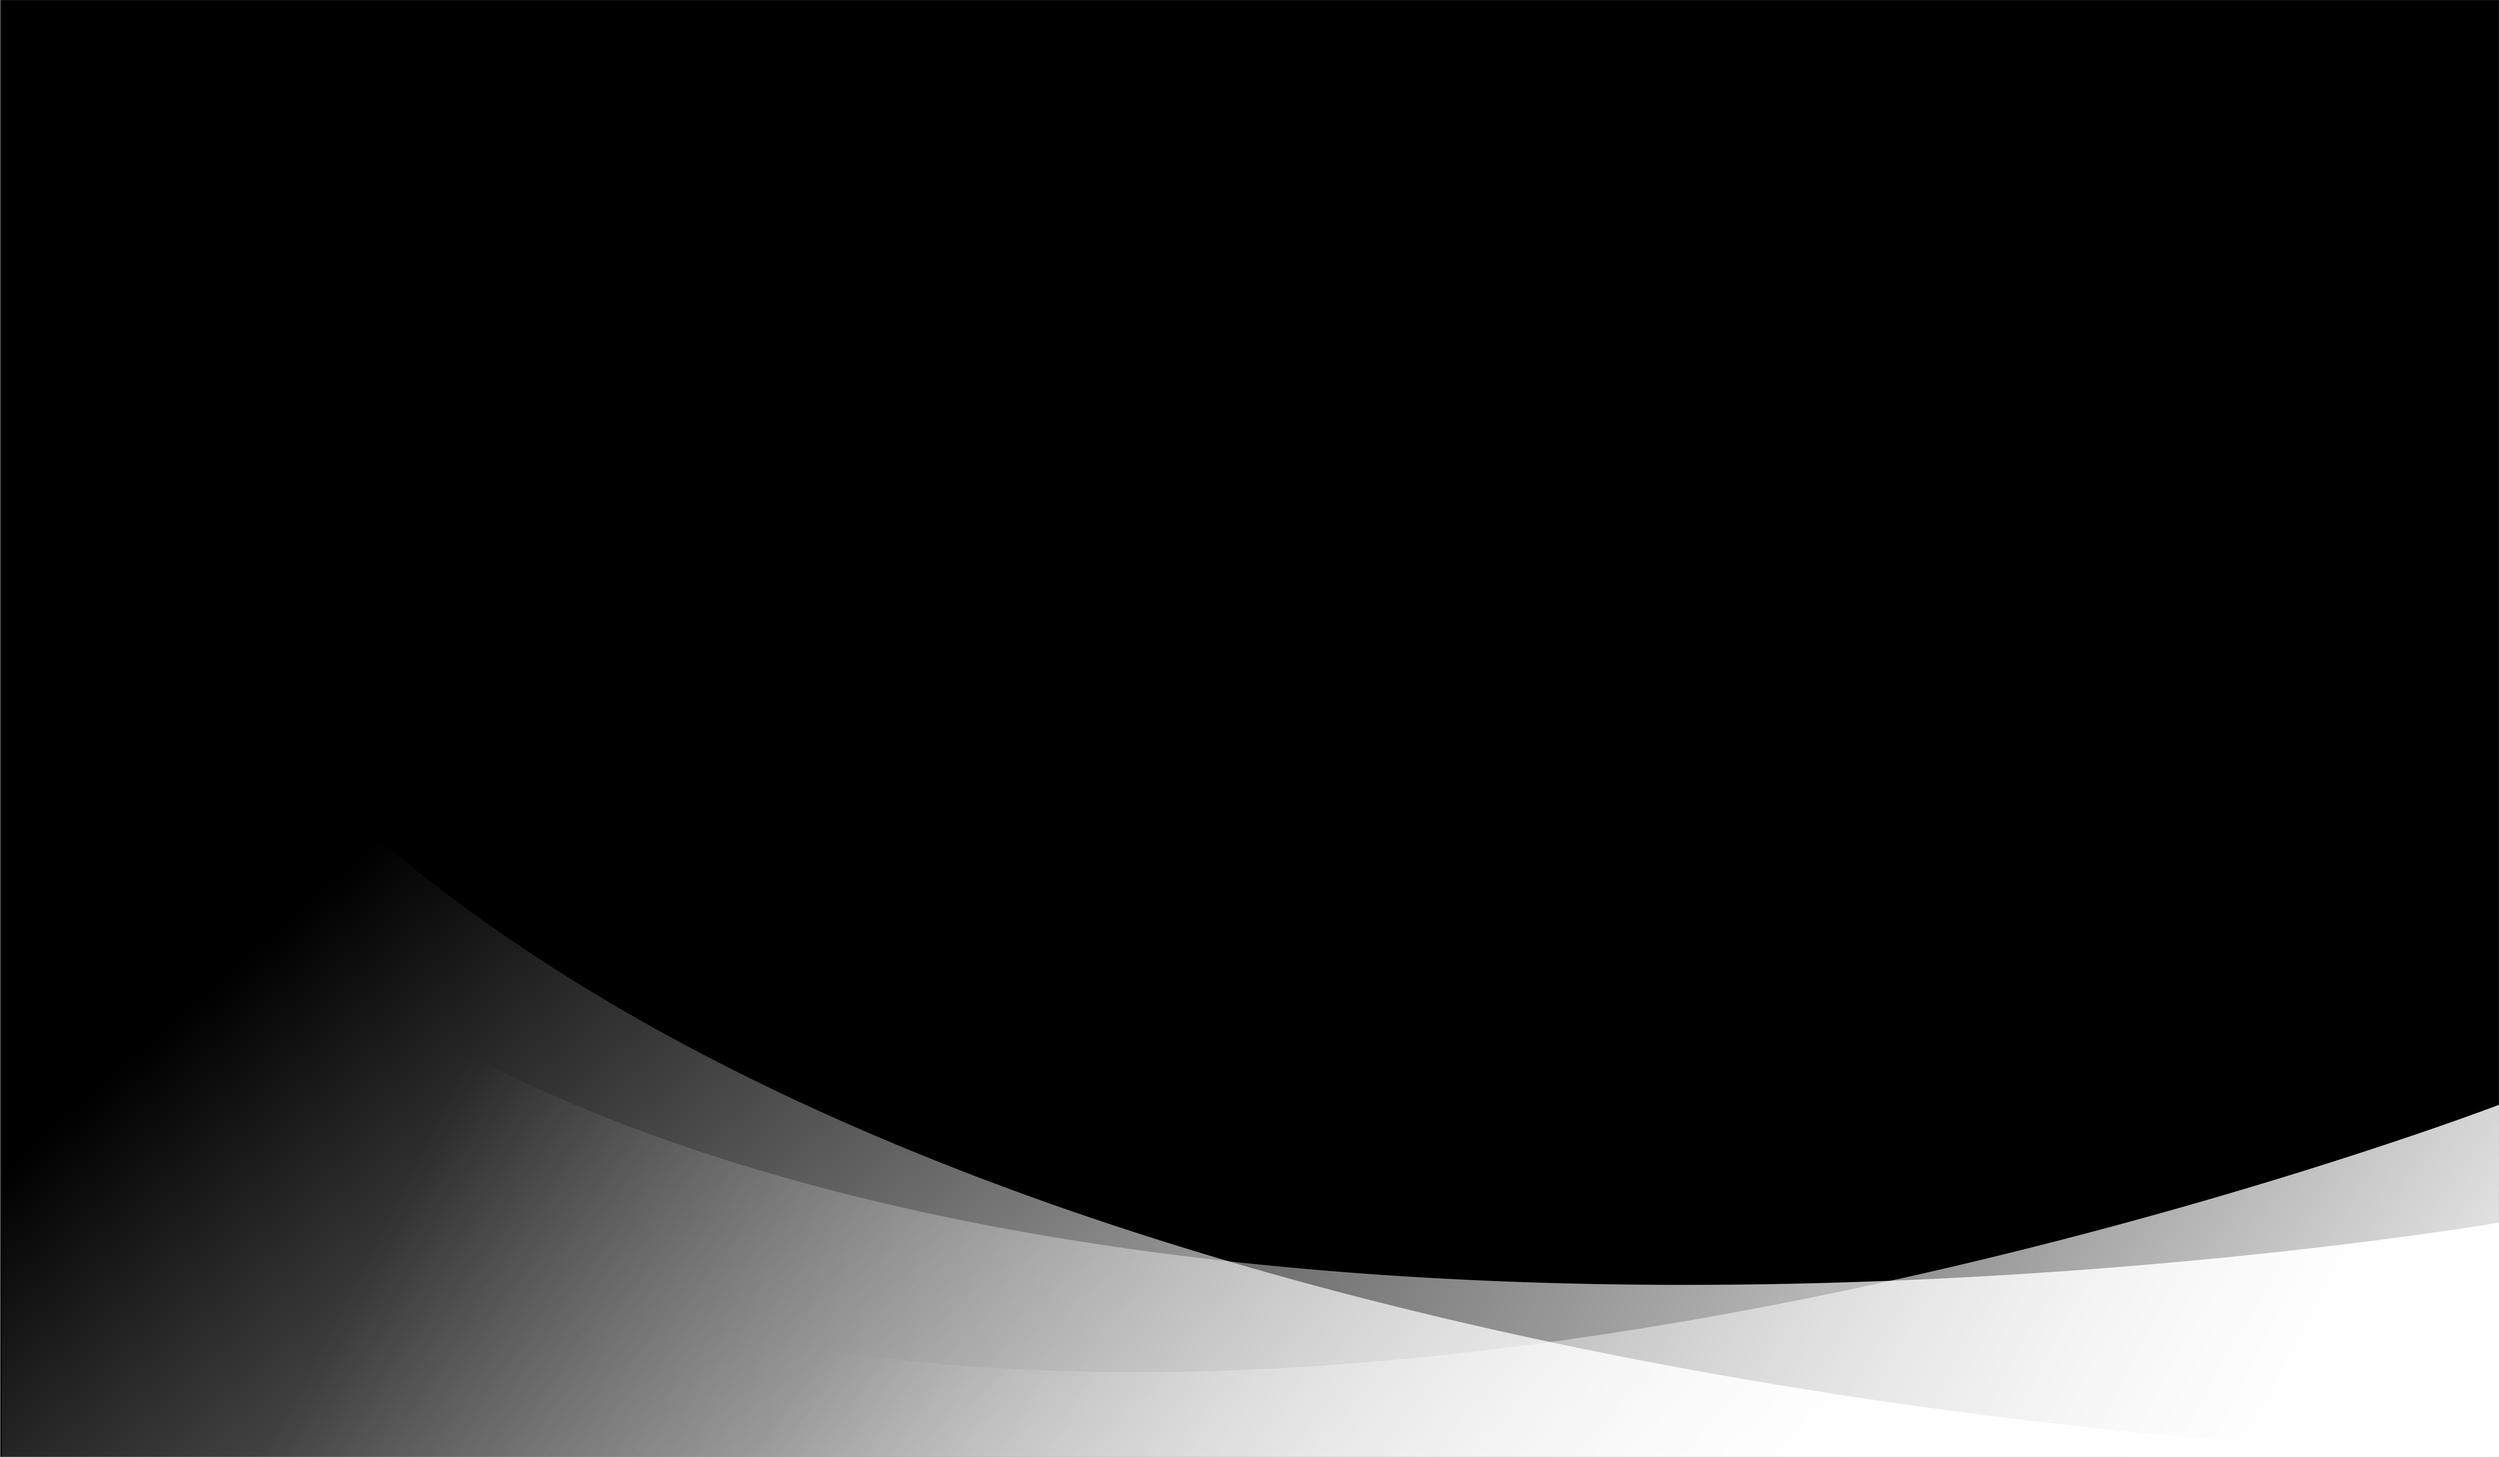
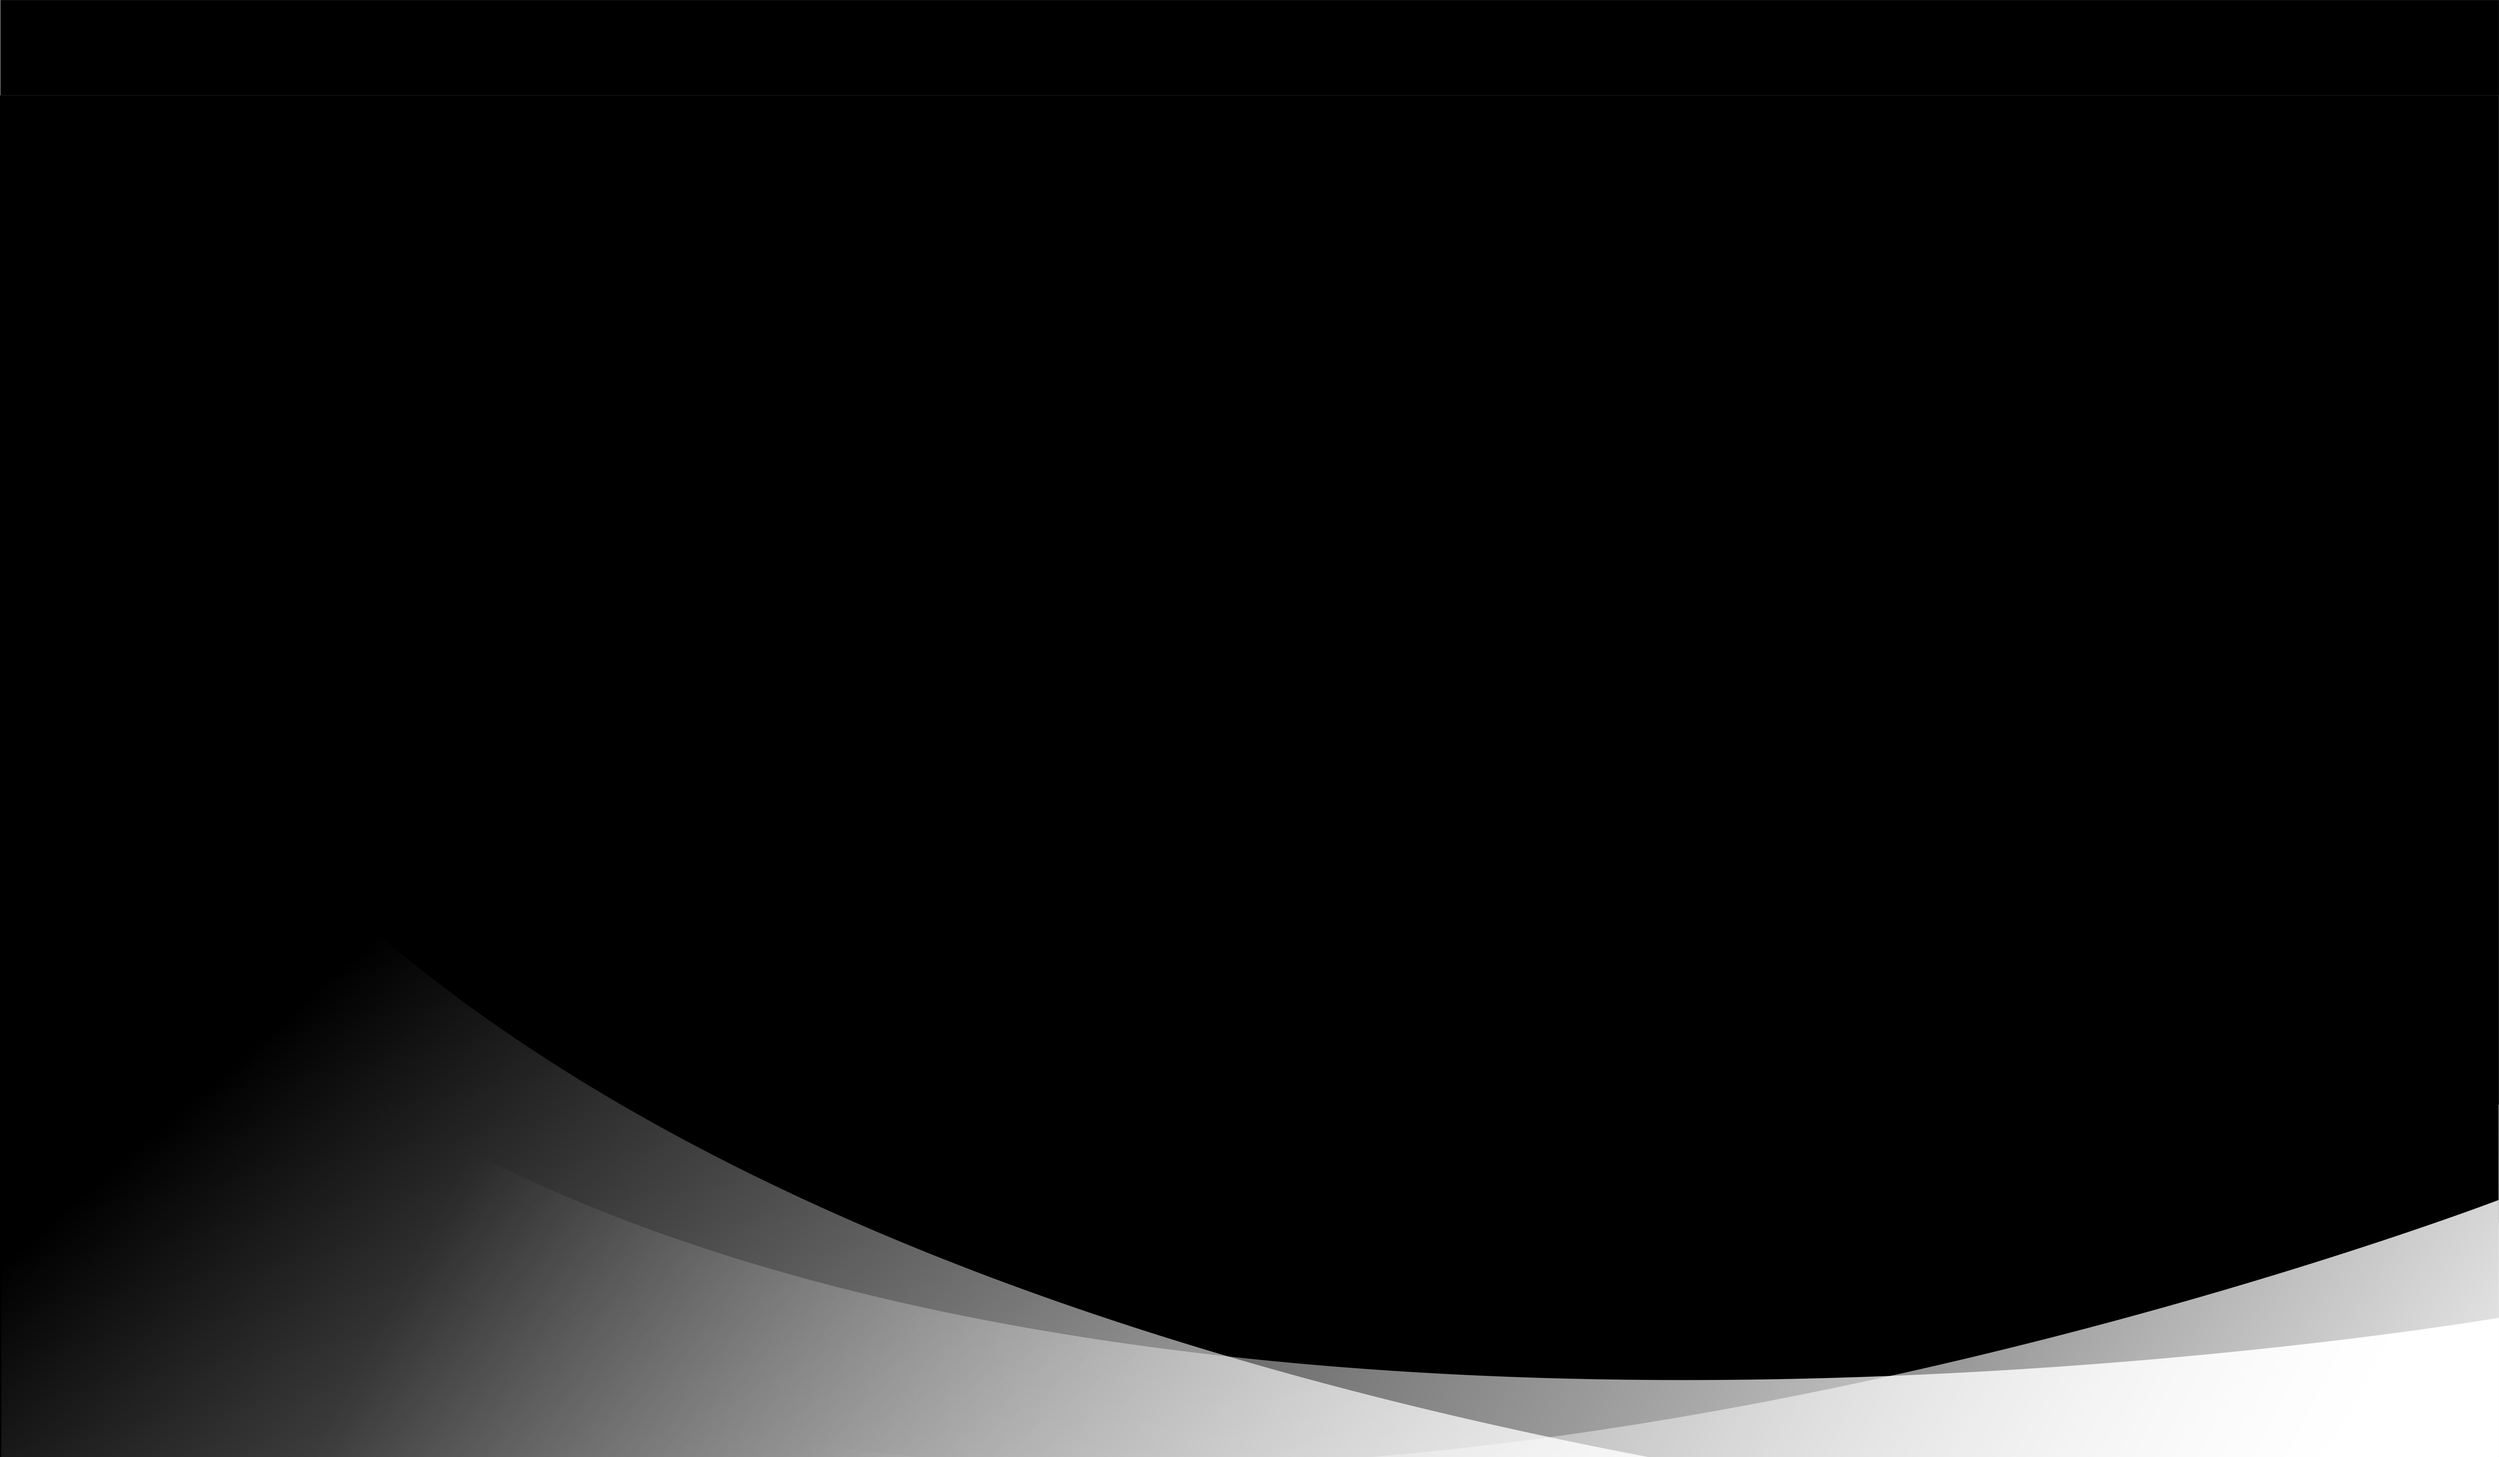
Added background forcards section

Changed region(s): [[0.1559, 0.6229, 1.0, 1.0]]

diff --git a/src/components/FigmaModal.css b/src/components/FigmaModal.css
@@ -1,7 +1,20 @@
 .preview-section {
-  background: #000;
+  background-image: url("/assets/next.jpg");
+  background-size: cover;
+  background-repeat: no-repeat;
+  background-position: bottom;
   text-align: center;
   padding: 80px 20px 30px;
+  position: relative;
+  z-index: 1;
+}
+
+.preview-section::before {
+  content: "";
+  position: absolute;
+  inset: 0;
+  background: rgba(0, 0, 0, 0.75);
+  z-index: -1;
 }
 
 .preview-heading {
